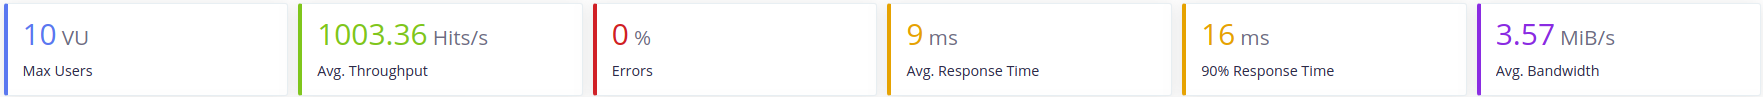
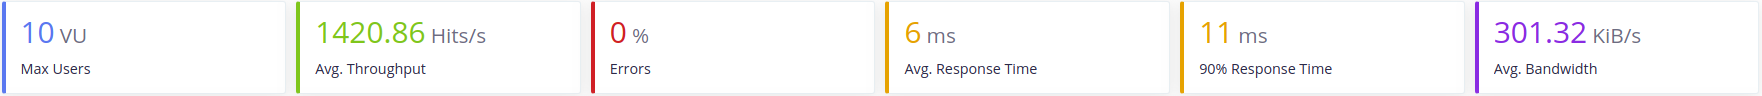
Repasados los resultados Issue #65

diff --git a/README.md b/README.md
@@ -211,11 +211,11 @@ Finalmente en cuanto a la base de datos, Mongo, como hemos comentado anteriormen
 
 ![Test](./Documentacion/pic/FinalResult10.png)
 ![Test](./Documentacion/pic/FinalResult20.png)
-![Test](./Documentacion/pic/FInalResult30.png)
+![Test](./Documentacion/pic/FinalResult30.png)
 
-* Peticiones por segundo media 1020 Hits/s
-* Ancho de banda medio 3 MiB/s
-* Tiempo de respuesta medio 18 ms
+* Peticiones por segundo media 1425 Hits/s
+* Ancho de banda medio 279 KiB/s
+* Tiempo de respuesta medio 13 ms
 * Error medio 0%
 
 Con esto podemos concluir que el servidor efectivamente cumple los requisitos mínimos que se esperaban de el.
